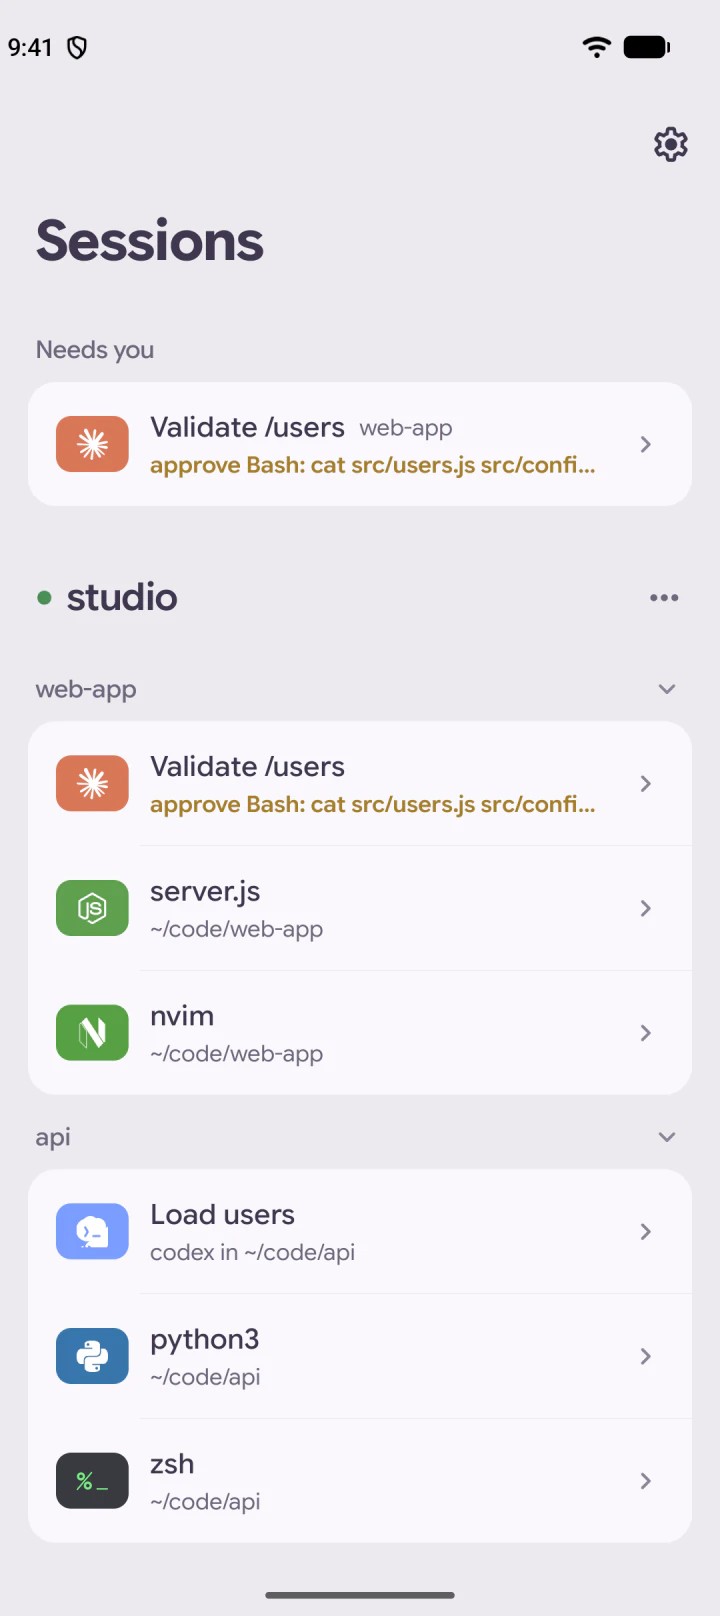
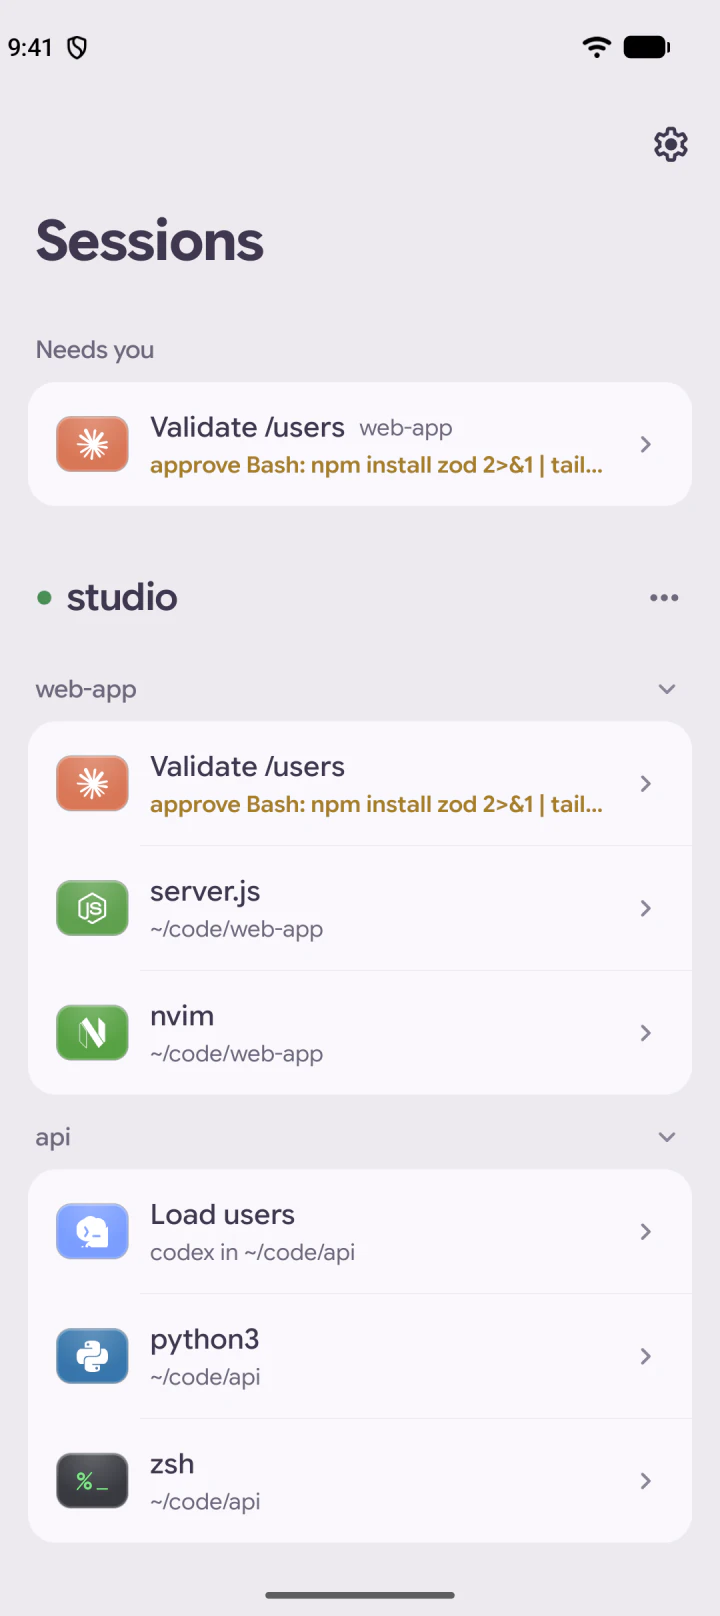
feat(home): light and rim on program tiles, as in Rex
Each tile gets a soft light from the top centre, a thin light rim
inside its edge that is brightest at the top, and a faint dark line
around it. Retake the README screenshots with the new tiles.

diff --git a/app/src/main/kotlin/de/uditkaro/rax/ui/components/ProgramGlyph.kt b/app/src/main/kotlin/de/uditkaro/rax/ui/components/ProgramGlyph.kt
@@ -1,16 +1,21 @@
 package de.uditkaro.rax.ui.components
 
 import androidx.annotation.DrawableRes
-import androidx.compose.foundation.background
 import androidx.compose.foundation.layout.Box
 import androidx.compose.foundation.layout.size
-import androidx.compose.foundation.shape.RoundedCornerShape
 import androidx.compose.material3.Text
 import androidx.compose.runtime.Composable
 import androidx.compose.ui.Alignment
 import androidx.compose.ui.Modifier
+import androidx.compose.ui.draw.drawBehind
+import androidx.compose.ui.geometry.CornerRadius
+import androidx.compose.ui.geometry.Offset
+import androidx.compose.ui.geometry.Size
+import androidx.compose.ui.graphics.Brush
+import androidx.compose.ui.graphics.Color
+import androidx.compose.ui.graphics.drawscope.DrawScope
+import androidx.compose.ui.graphics.drawscope.Stroke
 import androidx.compose.ui.semantics.clearAndSetSemantics
-import androidx.compose.ui.draw.clip
 import androidx.compose.ui.text.TextStyle
 import androidx.compose.ui.text.font.FontWeight
 import androidx.compose.ui.unit.Dp
@@ -37,9 +42,7 @@ fun ProgramGlyph(
         else -> plainColors
     }
     Box(
-        modifier.size(width = height * 1.3f, height = height)
-            .clip(RoundedCornerShape(percent = 27))
-            .background(colors.tile),
+        modifier.size(width = height * 1.3f, height = height).drawBehind { drawTile(colors.tile) },
         contentAlignment = Alignment.Center,
     ) {
         when {
@@ -57,4 +60,43 @@ fun ProgramGlyph(
             )
         }
     }
+}
+
+/**
+ * The tile in [color] the way Rex draws it: a faint dark line around it, a soft light from the top
+ * centre, and a thin light rim inside the edge that is brightest at the top.
+ */
+private fun DrawScope.drawTile(color: Color) {
+    val ring = size.height * 0.016f
+    val rim = size.height * 0.03f
+    val radius = size.height * 0.27f
+    val tileOffset = Offset(ring, ring)
+    val tileSize = Size(size.width - 2 * ring, size.height - 2 * ring)
+    val tileRadius = CornerRadius(radius - ring)
+
+    drawRoundRect(Color.Black.copy(alpha = 0.28f), cornerRadius = CornerRadius(radius))
+    drawRoundRect(color, tileOffset, tileSize, tileRadius)
+    drawRoundRect(
+        Brush.radialGradient(
+            listOf(Color.White.copy(alpha = 0.22f), Color.Transparent),
+            center = Offset(size.width / 2, 0f),
+            radius = size.height * 0.8f,
+        ),
+        tileOffset,
+        tileSize,
+        tileRadius,
+    )
+    drawRoundRect(
+        Brush.verticalGradient(
+            0f to Color.White.copy(alpha = 0.3f),
+            0.5f to Color.White.copy(alpha = 0.1f),
+            1f to Color.White.copy(alpha = 0.16f),
+            startY = ring,
+            endY = size.height - ring,
+        ),
+        tileOffset + Offset(rim / 2, rim / 2),
+        Size(tileSize.width - rim, tileSize.height - rim),
+        CornerRadius(radius - ring - rim / 2),
+        style = Stroke(rim),
+    )
 }

diff --git a/.claude/skills/ui-design/SKILL.md b/.claude/skills/ui-design/SKILL.md
@@ -78,7 +78,8 @@ As in Rex, each logo sits on its own coloured tile, 1.3 times as wide as it is t
 mostly the brand's colour from Simple Icons or Lobe Icons, with the logo in white, or near black on
 a tile too light for white. Shells are green on dark grey, and logos with no brand colour are light
 grey on dark grey (`ProgramLogoColors.kt`). Tiles keep their colours in every theme, so each logo
-stays visible in light and dark ones.
+stays visible in light and dark ones. Like Rex's, each tile has a soft light from the top, a thin
+light rim inside the edge and a faint dark line around it (`drawTile` in `ProgramGlyph.kt`).
 
 A bottom sheet is a `RaxSheet`. It keeps the screen behind it dimmed while the user drags it, and
 the dim fades only when the sheet leaves. Material's own sheet drops its dim as soon as a drag
